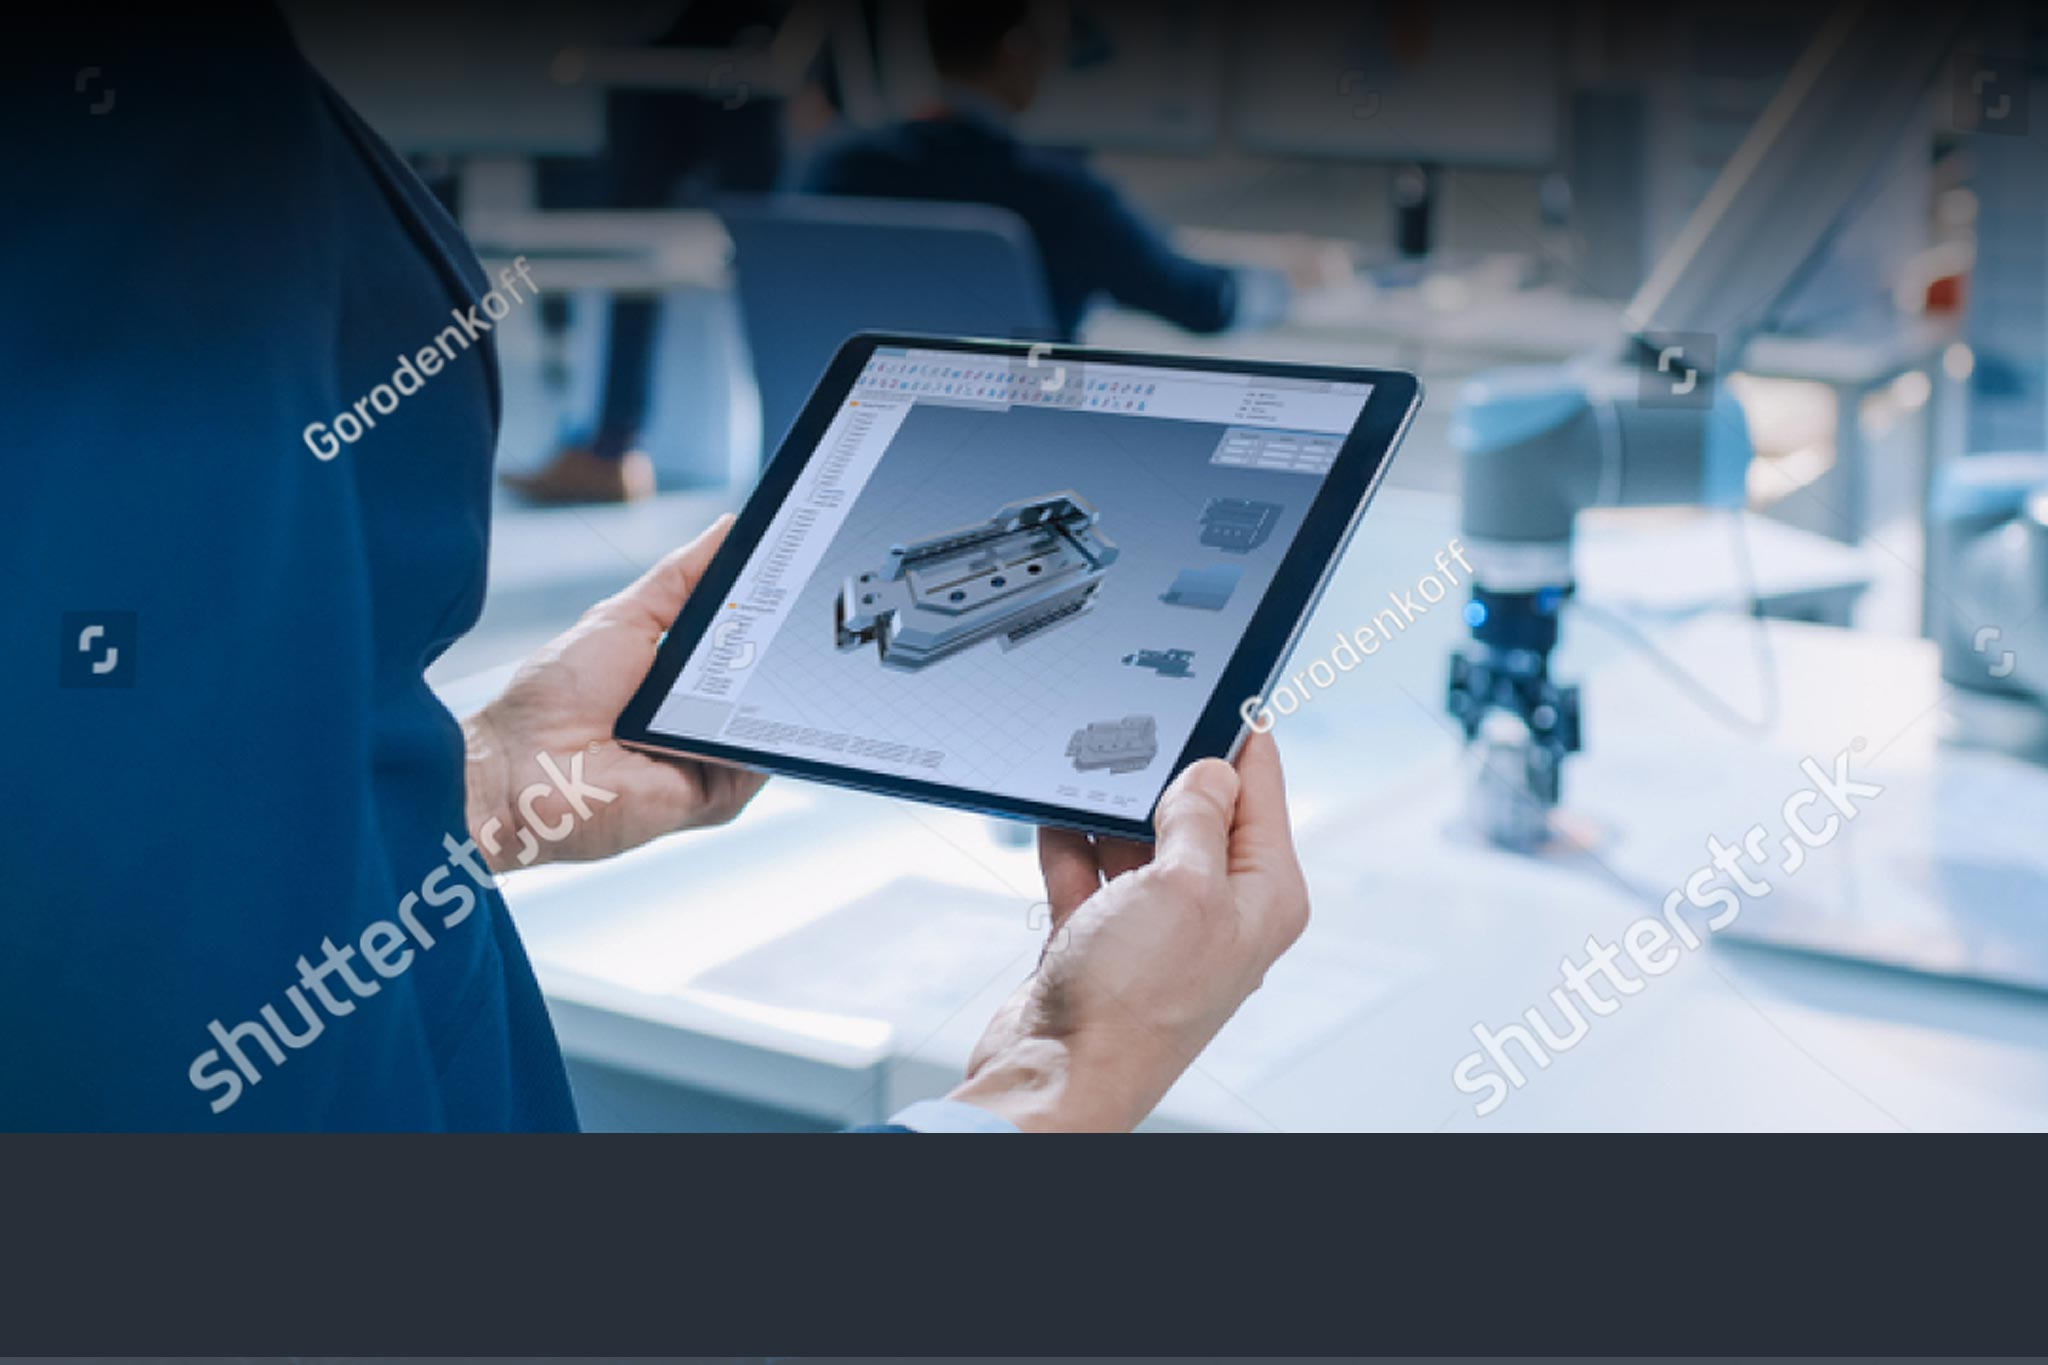
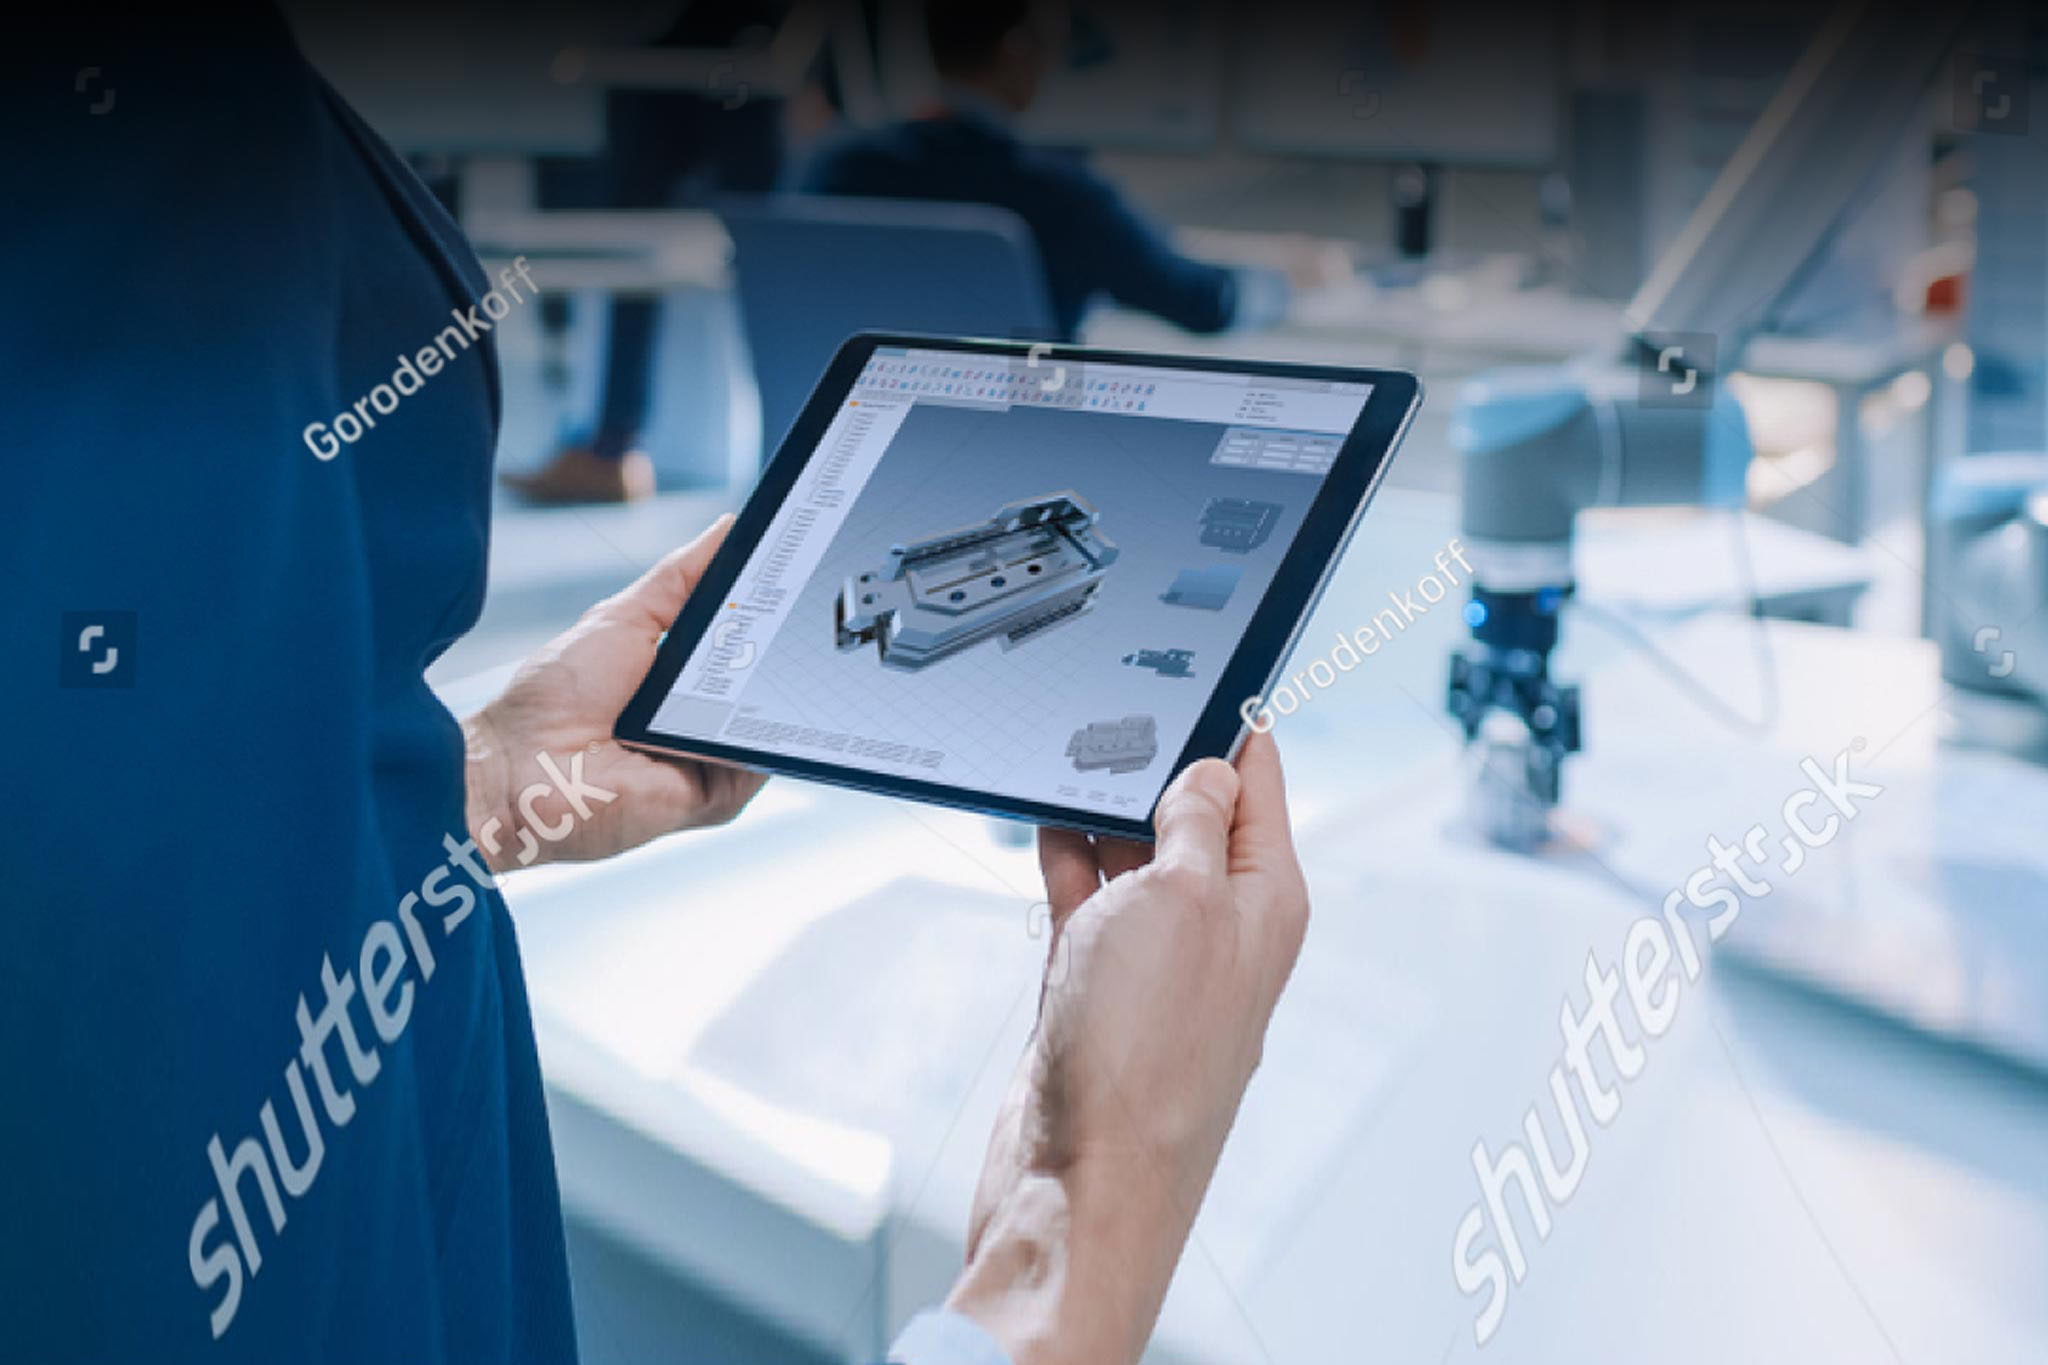
images and css change

Changed region(s): [[0.0, 0.6769, 1.0, 1.0]]

diff --git a/about-us.html b/about-us.html
@@ -134,7 +134,7 @@
        page title 
     =========================== -->
     <section id="page-title" class="page-title page-title-layout4 bg-overlay bg-parallax">
-      <div class="bg-img"><img src="assets/images/page-titles/5.jpg" alt="background"></div>
+      <div class="bg-img"><img src="assets/images/page-titles/5a.jpg" alt="background"></div>
       <div class="container">
         <div class="row">
           <div class="col-sm-12 col-md-12 col-lg-12">

diff --git a/assets/css/style.css b/assets/css/style.css
@@ -8009,7 +8009,7 @@ IPhone
 
 @media only screen and (max-width: 375px) {
   .page-title {
-    background-size: 135% !important;
+    background-size: 125% !important;
     background-position: center 50px !important;
   }
 }
